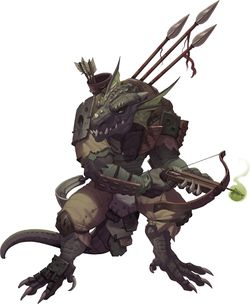
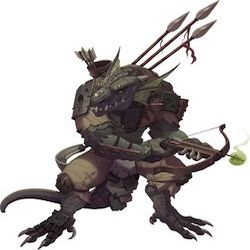
Changed character creation to include stat points you spend to increase starter stats and standardized enemy pic size

diff --git a/src/components/CharacterCreation.js b/src/components/CharacterCreation.js
@@ -1,13 +1,14 @@
 import React, {Component} from 'react';
 
 class CharacterCreation extends Component {
+    totalPoints = 20;
     constructor(props) {
         super(props);
         this.state = {
             name: "Cap'n Placeholder",
-            attack: 3,
-            defense: 3,
-            health: 20,
+            attack: 1,
+            defense: 1,
+            health: 1,
         }
     }
     handleCreateClick = () => {
@@ -21,31 +22,46 @@ class CharacterCreation extends Component {
     handleNameChange = (event) => {
         this.setState({name: event.target.value});
     }
-    handleAttackChange = (event) => {
-        if (event.target.value > 3) {
-            this.setState({attack: 3});
-        } else if (event.target.value <= 0 || !parseInt(event.target.value)){
-            this.setState({attack: 1})
-        } else {
-            this.setState({attack: +event.target.value});
-        }
-    }
-    handleDefenseChange = (event) => {
-        if (event.target.value > 3) {
-            this.setState({defense: 3})
-        } else if (event.target.value <= 0 || !parseInt(event.target.value)){
-            this.setState({defense: 1})
-        }else {
-            this.setState({defense: +event.target.value});
-        }
-    }
-    handleHealthChange = (event) => {
-        if (event.target.value > 20) {
-            this.setState({health: 20})
-        } else if (event.target.value <= 0 || !parseInt(event.target.value)){
-            this.setState({health: 1})
-        }else {
-            this.setState({health: +event.target.value});
+
+    handleStatChange = (event) => {
+        switch (event.target.id) {
+            case "attInc":
+                if (this.totalPoints > 0 && this.state.attack < 3) {
+                    this.setState({attack: this.state.attack + 1})
+                    this.totalPoints--;
+                }
+            break;
+            case "defInc":
+                if (this.totalPoints > 0 && this.state.defense < 3) {
+                    this.setState({defense: this.state.defense + 1})
+                    this.totalPoints--;
+                }
+            break;
+            case "healthInc":
+                if (this.totalPoints > 0 && this.state.health < 20) {
+                    this.setState({health: this.state.health + 1})
+                    this.totalPoints--;
+                }
+            break;
+            case "attDec":
+                if (this.state.attack >= 2) {
+                    this.setState({attack: this.state.attack - 1})
+                    this.totalPoints++;
+                }
+            break;
+            case "defDec":
+                if (this.state.defense >= 2) {
+                    this.setState({defense: this.state.defense - 1})
+                    this.totalPoints++;
+                }
+            break;
+            case "healthDec":
+                if (this.state.health >= 2) {
+                    this.setState({health: this.state.health - 1})
+                    this.totalPoints++;
+                }
+            break;
+            
         }
     }
 
@@ -53,11 +69,15 @@ class CharacterCreation extends Component {
         return (
             <div>
                 <h2>Create Character:</h2>
-                <input className="name" placeholder="Name" onChange={this.handleNameChange}/><br/>
-                <input className="attack" placeholder="Attack (Max = 3)" onChange={this.handleAttackChange}/><br/>
-                <input className="defense" placeholder="Defense (Max = 3)" onChange={this.handleDefenseChange}/><br/>
-                <input className="health" placeholder="Health (Max = 20)" onChange={this.handleHealthChange}/><br/>
-                <input type="button" value="Begin Adventure!" onClick={this.handleCreateClick}/>
+                <input className="name" placeholder="Name" onChange={this.handleNameChange}/><br/><br/>
+                    <div>Total Stat Points Available: {this.totalPoints}</div><br/>
+                    <div>Attack: {this.state.attack}</div>
+                    <button id="attInc" onClick={this.handleStatChange}>+</button><button id="attDec" onClick={this.handleStatChange}>-</button>
+                    <div>Defense: {this.state.defense}</div>
+                    <button id="defInc" onClick={this.handleStatChange}>+</button><button id="defDec" onClick={this.handleStatChange}>-</button>
+                    <div>Health: {this.state.health}</div>
+                    <button id="healthInc" onClick={this.handleStatChange}>+</button><button id="healthDec" onClick={this.handleStatChange}>-</button><br/><br/>
+                <input type="button" value="Begin Adventure!" disabled={this.totalPoints > 0} onClick={this.handleCreateClick}/>
             </div>
         )
     }

diff --git a/src/Enemies.js b/src/Enemies.js
@@ -2,7 +2,7 @@ import BlackDragon from './images/players/Black_dragon.jpg';
 import Ooze from './images/players/Ooze.jpg';
 import Kobold from './images/players/Kobold.jpg';
 import RatKing from './images/players/Rat_king.jpg';
-import Rat from './images/players/Rat.jpg';
+import Rat from './images/players/Rat.png';
 
 export default function() {
     return [
@@ -18,31 +18,31 @@ export default function() {
             id: 1,
             name: "Rat King",
             attack: 2,
-            defense: 1,
+            defense: 2,
             health: 15,
             src: RatKing
         },
         {
             id: 2,
             name: "Kobold",
-            attack: 3,
-            defense: 3,
+            attack: 5,
+            defense: 5,
             health: 20,
             src: Kobold
         },
         {
             id: 3,
             name: "Ooze",
-            attack: 4,
-            defense: 2,
+            attack: 6,
+            defense: 4,
             health: 25,
             src: Ooze
         },
         {
             id: 4,
             name: "Dragon",
-            attack: 6,
-            defense: 6,
+            attack: 12,
+            defense: 8,
             health: 30,
             src: BlackDragon
         },

diff --git a/src/components/Loss.js b/src/components/Loss.js
@@ -14,13 +14,13 @@ class Loss extends Component {
                 <h3>Defeated Monsters</h3>
                 <ul>
                     {this.props.enemy.map(defeated => (
-                        defeated.health <= 0 ? <img key={defeated.id} src={defeated.src} alt="defeated"/> : null
+                        defeated.health <= 0 ? <img key={defeated.id} src={defeated.src} alt="defeated" /> : null
                     ))}
                 </ul>
                 <h3>Undefeated Monster</h3>
                 <ul>
                     {this.props.enemy.map(undefeated => (
-                        undefeated.health > 0 ? <img key={undefeated.id} src={undefeated.src} alt="undefeated"/> : null
+                        undefeated.health > 0 ? <img key={undefeated.id} src={undefeated.src} alt="undefeated" /> : null
                     ))}
                 </ul>
                 <input type="button" value="Start New Game" onClick={this.handleNewGameClick}/>

diff --git a/src/Items.js b/src/Items.js
@@ -29,9 +29,9 @@ export default function() {
             id: 2,
             name: "Vorpal Scimitar",
             type: "weapon",
-            attack: 5,
+            attack: 4,
             defense: 0,
-            cost: 5,
+            cost: 4,
             src: Vorpal
         },
         {
@@ -49,7 +49,7 @@ export default function() {
             type: "armor",
             attack: 0,
             defense: 2,
-            cost: 3,
+            cost: 2,
             src: Plate
         },
         {
@@ -57,8 +57,8 @@ export default function() {
             name: "Mithril Shirt",
             type: "armor",
             attack: 0,
-            defense: 5,
-            cost: 5,
+            defense: 4,
+            cost: 4,
             src: Mithril
         },
 

diff --git a/src/components/Battle.js b/src/components/Battle.js
@@ -105,7 +105,7 @@ class Battle extends Component {
                 this.props.updateCharacter("xp", this.props.character.xp + 50);
                 this.props.updateCharacter("gold", this.props.character.gold + 
                     (this.rollD100() < 40 ? 0 : this.rollD6()));
-                if ( this.rollD100() < 30) {
+                if ( this.rollD100() < 20) {
                     if (!this.props.character.inventory.includes(this.props.items[randomItemId])) {
                         this.props.addInventory(this.props.items[randomItemId])
                     } 
